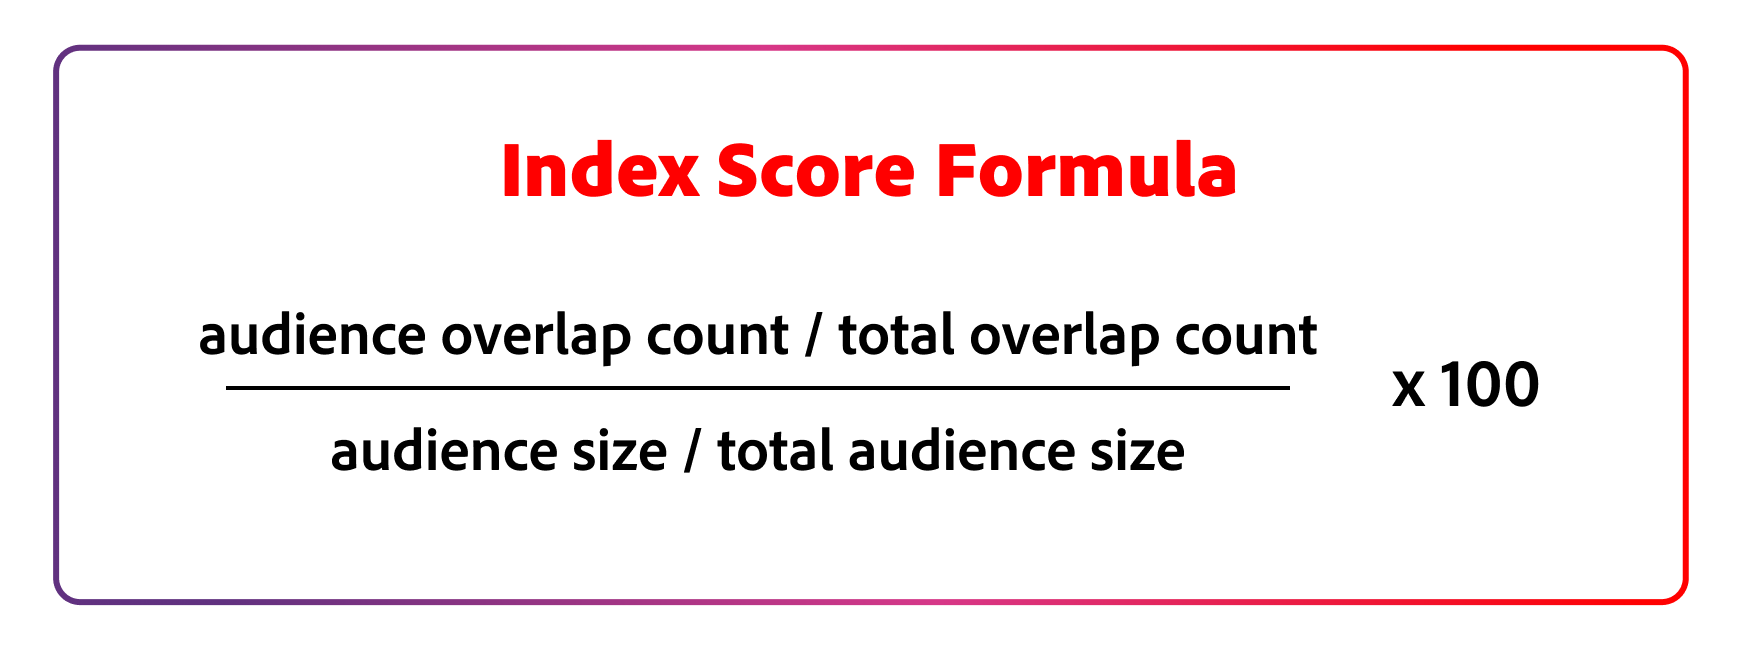
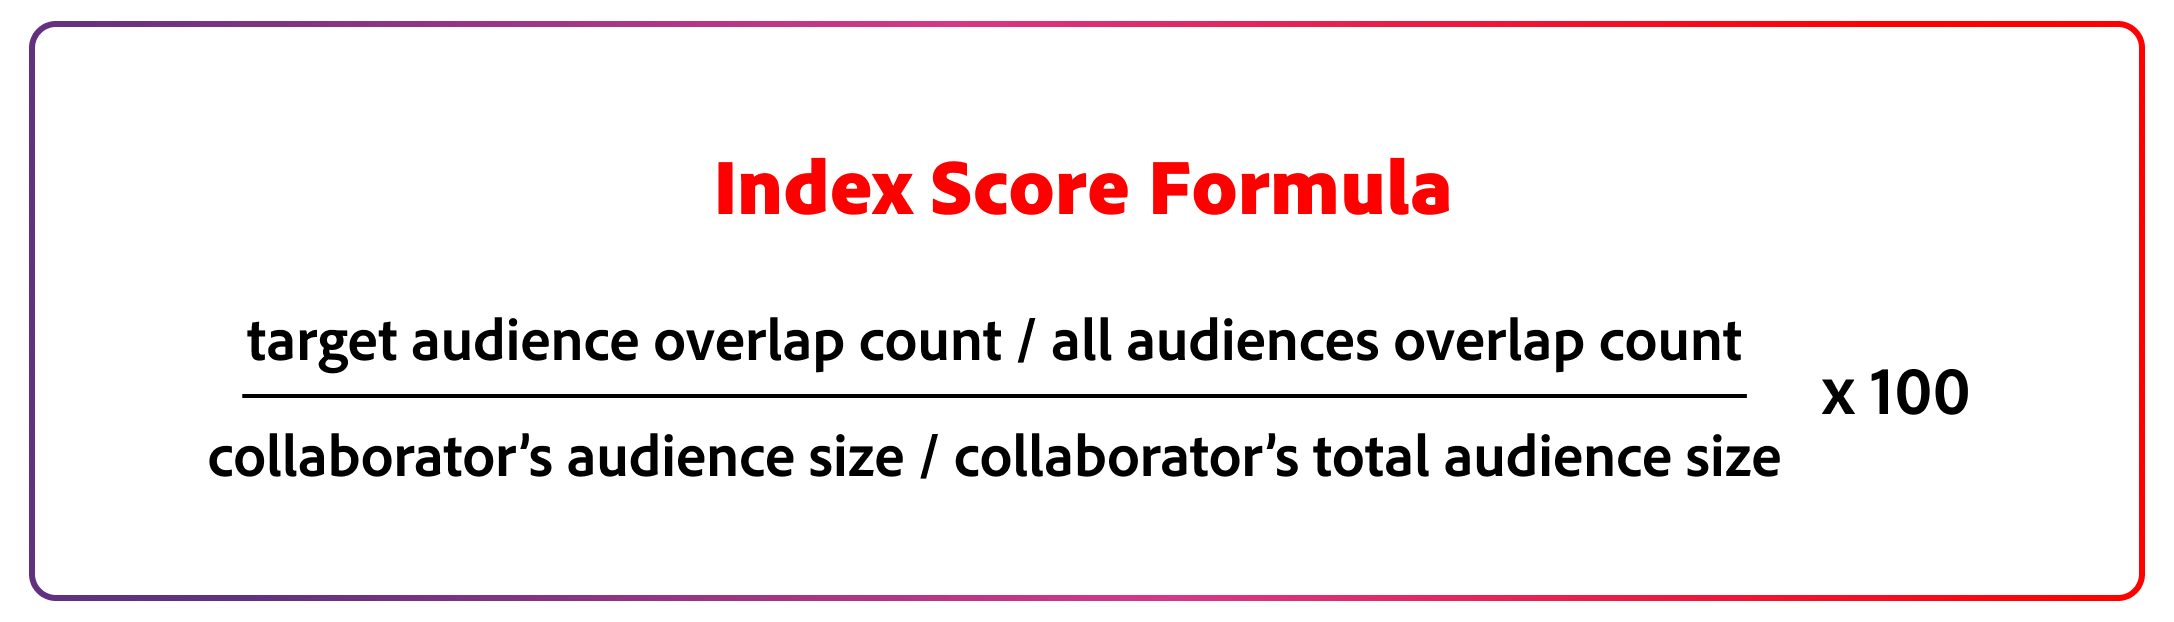
updates based on PM feedback

Changed region(s): [[0.0, 0.0305, 0.9931, 0.9775], [0.0931, 0.4887, 0.931, 0.7637], [0.2793, 0.2138, 0.7138, 0.3666]]

diff --git a/help/guide/collaborate/discover.md b/help/guide/collaborate/discover.md
@@ -76,14 +76,14 @@ In the compare audiences section, you can see the following metrics, which are b
 | **[!UICONTROL Identity count]** (your collaborator) | The number of unique IDs within your collaborator's audience(s). |
 | **[!UICONTROL Overlapping identities]** | The number of unique IDs that are present in both your and your collaborator's audiences. |
 | **[!UICONTROL Overlap %]** | The percentage of profiles overlapping between your and your collaborator's selected audience. |
-| **[!UICONTROL Audience index]** | A score that indicates how strongly one audience relates to another based on underlying audience counts & overlaps. To learn more about what the scores mean, read the [audience index score](#audience-index-score) section. Audience index scores are not available when comparing against all your collaborator's audiences. |
+| **[!UICONTROL Audience index]** | A score that indicates how strongly one audience relates to another based on underlying audience counts & overlaps. To learn more about what the scores mean, read the [audience index score](#audience-index-score) section. Audience index scores are not available when comparing against your collaborator's baseline (all audiences). |
 | **[!UICONTROL Identities breakdown by match key]** | The breakdown of identites for each match key chosen in the project, based on the select audiences for each collaborator. |
 
 {style="table-layout:auto"}
 
 >[!NOTE]
 >
->The overlap percentage figure and audience index score may not be always available for all audiences. The visibility of the overlap percentage indicator depends on the setting that your collaborator chose for an audience in the [metadata visibility section](/help/guide/setup/onboard-audiences.md#metadata-visibility).
+>The overlap percentage figure and audience index score may not be always available for all audiences. The visibility of the overlap percentage and audience index score depends on the setting that your collaborator chose for an audience in the [metadata visibility section](/help/guide/setup/onboard-audiences.md#metadata-visibility).
 
 If your collaborator has not enabled either the audience index or the overlap percentage, the audience will not have any comparison data available. 
 
@@ -106,7 +106,7 @@ The **[!UICONTROL Relevant audiences]** section displays the following informati
 
 | Metric | Description |
 |---------|----------|
-| **[!UICONTROL Identity count]** | The name unique IDs within the audience. |
+| **[!UICONTROL Identity count]** | The number of unique IDs within the audience. |
 | **[!UICONTROL Overlapping identities]** | The number of unique IDs that overlap between the recommended audience and all your audiences. |
 | **[!UICONTROL Overlap %]** | The percentage of overlapping identities between the recommended audience and all your audiences. |
 | **[!UICONTROL Audience index]** | A score that indicates how strongly one audience relates to another based on underlying audience counts & overlaps. To learn more about what the scores mean, read the [audience index score](#audience-index-score) section. |
@@ -115,7 +115,7 @@ The **[!UICONTROL Relevant audiences]** section displays the following informati
 
 {style="table-layout:auto"}
 
-If audience index is enabled for any of your collaborator's audiences, relevant audiences will be based on the audience index score, and any audiences where the audience index has not been enabled will not be included. Relevant audiences based on the audience index score are sorted so the highest index score is displayed first. If audience index is not enabled for any of your collaborator's audiences, the relevant audiences will be based on the overlap percentage.
+If audience index score is enabled for any of your collaborator's audiences, relevant audiences will be based on the audience index score, and any audiences where the audience index has not been enabled will not be included. Relevant audiences based on the audience index score are sorted so the highest index score is displayed first. If audience index is not enabled for any of your collaborator's audiences, the relevant audiences will be based on the overlap percentage.
 
 ## Discover overlaps {#discover-overlaps}
 
@@ -164,7 +164,7 @@ Once you've selected the desired audiences, the **[!UICONTROL Discover overlaps]
 
 Audience index scores are a nuanced metric that shows how strongly one audience relates to another based on underlying audience counts and overlaps. This helps you contextualize audience insights and identify high-potential audiences for prospecting and campaign targeting.
 
-The raw index score is calculated using the following formula:
+The index score is calculated using the following formula:
 
 ![The formula for calculating the index score.](/help/assets/collaborate/discover/index-score-formula.png)
 
@@ -174,8 +174,9 @@ Imagine a car manufacturer wants to run an advertising campaign with a large CTV
 
 Index score calculations are made and can be used to determine the likely success of the campaign:
 
-| CTV Publisher Audience | Formula | Index Score | Interpretation |
+| CTV Publisher Audience | Formula | Index Score (i) | Interpretation |
 |------------------------|-------------|----------------|----------------|
+| Baseline (all audiences) | ((1.3M / 1.3M) / (50M / 50M)) * 100 | 100 | This serves as the baseline against which your collaborator's other audiences are compared to. |
 | Binge Watchers | ((500k / 1.3M) / (20M / 50M)) * 100  | 96 | By targeting this audience, you are 4% less likely to reach SUV owners compared to the baseline. |
 | Comedy Lovers | ((200k / 1.3M) / (6M / 50M)) * 100 | 128 | By targeting this audience, you are 28% more likely to reach SUV owners compared to the baseline. |
 | Males 25-34 | ((700k / 1.3M) / (12M / 50M)) * 100 | 224 | By targeting this audience, you are 124% more likely to reach SUV owners compared to the baseline. |
@@ -185,7 +186,7 @@ To better understand how the index scores will impact your campaign, relevance b
 
 ### Relevance bands {#audience-index-relevance-bands}
 
-To enable easy comparison across different audiences and campaigns, Collaboration translates the raw index scores into relevance bands (very low to very high). This allows you to quickly assess the strength of the relationship between your audience and your collaborator's audience.
+To enable easy comparison across different audiences and campaigns, Collaboration translates the index scores into relevance bands (very low to very high). This allows you to quickly assess the strength of the relationship between your audience and your collaborator's audience.
 
 | Index Score (i) | Relevance Band | Description |
 |---------|----------|-----------|
